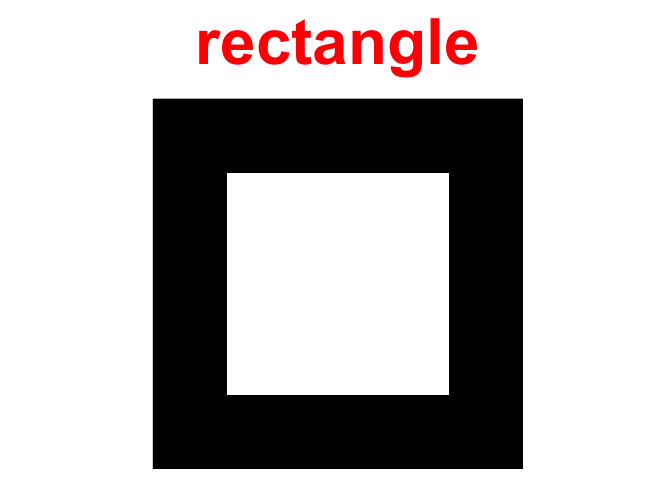
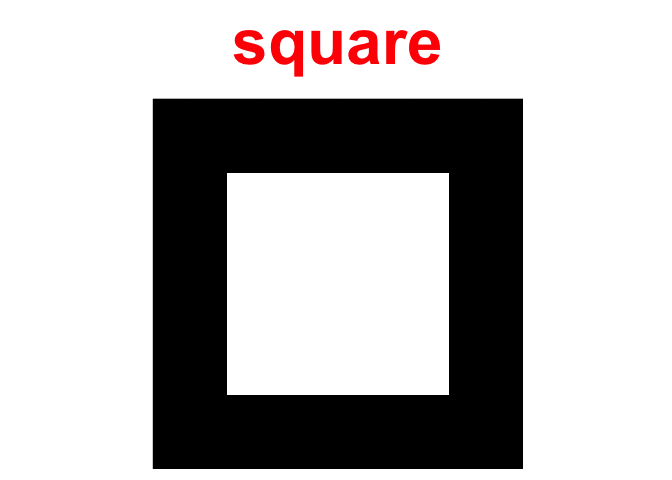
update R/plot_array2d.R

Changed region(s): [[0.2812, 0.0312, 0.7188, 0.1875]]

diff --git a/README.md b/README.md
@@ -60,7 +60,7 @@ plot_array2d(lar$checker, title = "checker")
 plot_array2d(lar$urandom, title = "urandom")
 plot_array2d(lar$zeros, title = "zeros")
 plot_array2d(lar$ones, title = "ones")
-plot_array2d(lar$rectangle, title = "rectangle")
+plot_array2d(lar$rectangle, title = "square")
 ```
 
 <img src="man/figures/README-figures-side-1.png" width="20%" /><img src="man/figures/README-figures-side-2.png" width="20%" /><img src="man/figures/README-figures-side-3.png" width="20%" /><img src="man/figures/README-figures-side-4.png" width="20%" /><img src="man/figures/README-figures-side-5.png" width="20%" />
